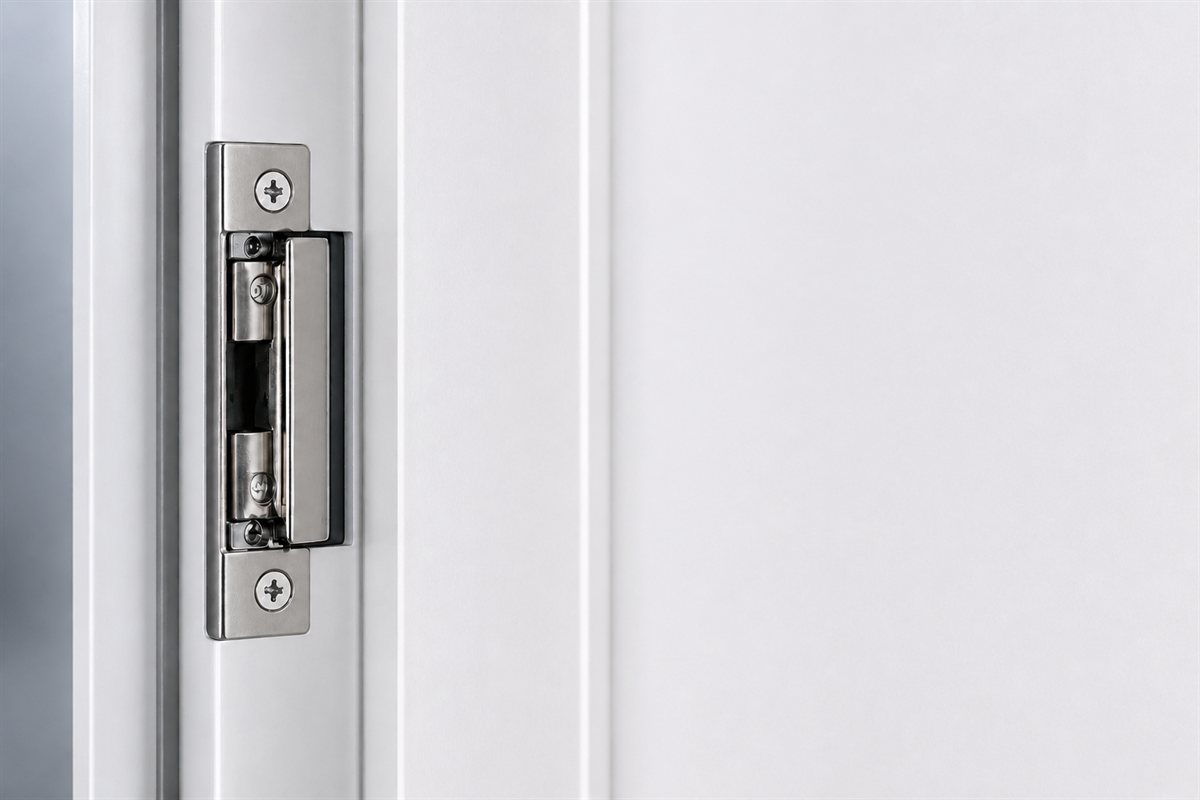
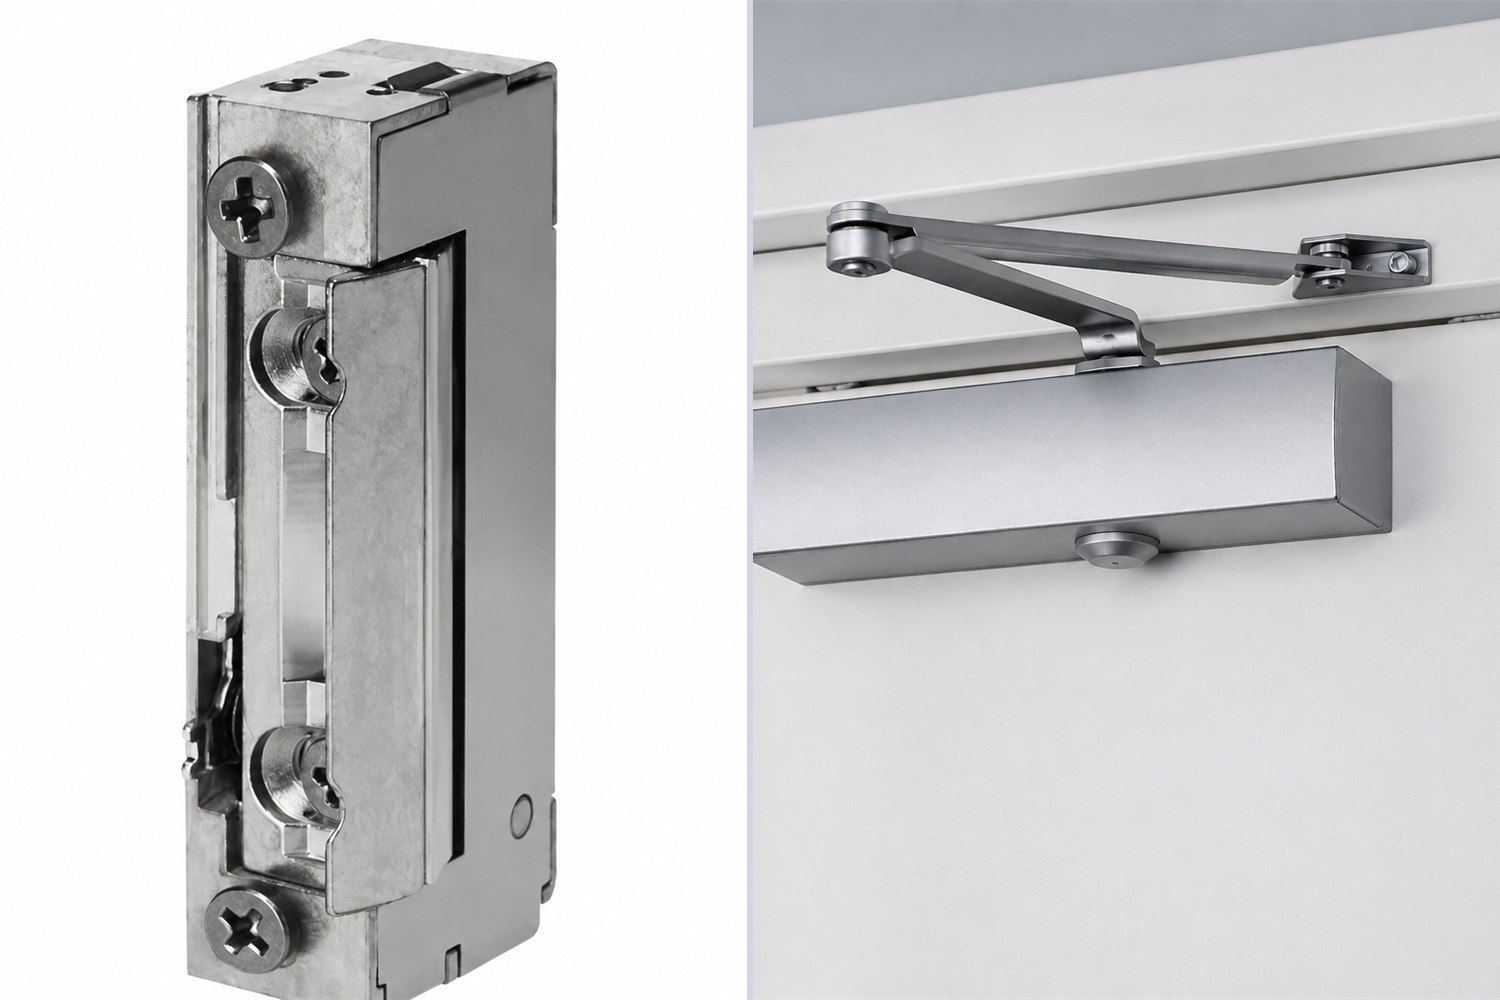
Startseite: Hero-Lead gekürzt, Trust-Punkte entfernt; Beschläge-Texte überarbeitet; Türöffner-Bild aktualisiert

diff --git a/index.html b/index.html
@@ -84,12 +84,7 @@
     <div class="hero-bar__main">
       <span class="eyebrow">Regional in Eichenau verwurzelt</span>
       <h1>Sicherheit für Ihr Zuhause – vom Fachmann montiert.</h1>
-      <p class="hero-bar__lead">Schließanlagen, Einbruchschutz und Sicherheitsbeschläge – sauber geplant, fachgerecht montiert und termintreu ausgeführt, persönlich und aus der Region.</p>
-      <div class="hero-bar__trust">
-        <div><b>Meisterqualität</b>fachgerechte Montage</div>
-        <div><b>Region</b>Eichenau &amp; Umkreis</div>
-        <div><b>Termintreu</b>zuverlässig &amp; sauber</div>
-      </div>
+      <p class="hero-bar__lead">Schließanlagen, Einbruchschutz und Sicherheitsbeschläge – fachgerecht geplant und zuverlässig montiert.</p>
     </div>
     <div class="hero-bar__side">
       <a href="tel:[phone redacted]" class="btn btn--white btn--lg"><svg viewBox="0 0 24 24" width="1em" height="1em" fill="currentColor" aria-hidden="true" style="vertical-align:-.14em"><path d="M6.6 10.8c1.[phone redacted].6l2.2-2.2c.3-.3.7-.4 1-.[phone redacted] .4 1 1V20c0 .6-.4 1-1 1C10.[phone redacted] 4c0-.6.4-1 1-1h3.5c.6 0 1 .[phone redacted] .8-.2 1L6.6 10.8z"/></svg>Kostenlos beraten lassen</a>
@@ -114,7 +109,7 @@
       </a>
       <a class="pcard" href="leistungen.html">
         <div class="pcard__media"><img src="img/produkte/beschlaege.jpg" alt="Geprüfter Sicherheitsbeschlag an einer Tür" loading="lazy"></div>
-        <div class="pcard__body"><h3>Sicherheitsbeschläge</h3><p>Geprüfte Beschläge, die Ihre Türen zuverlässig gegen Aufhebeln schützen.</p></div>
+        <div class="pcard__body"><h3>Sicherheitsbeschläge</h3><p>Geprüfte Sicherheitsbeschläge schützen Ihre Haus- und Wohnungstür dort, wo Einbrecher zuerst ansetzen: gegen Aufhebeln, Aufbohren und das gewaltsame Herausziehen des Zylinders (Kernziehen). Wir beraten Sie gerne vor Ort und montieren fachgerecht.</p></div>
       </a>
       <a class="pcard" href="leistungen.html">
         <div class="pcard__media"><img src="img/produkte/tueroeffner.jpg" alt="Elektrischer Türöffner" loading="lazy"></div>

diff --git a/leistungen.html b/leistungen.html
@@ -45,7 +45,7 @@
       </div>
       <div class="pcard">
         <div class="pcard__media"><img src="img/produkte/beschlaege.jpg" alt="Geprüfter Sicherheitsbeschlag an einer Tür" loading="lazy"></div>
-        <div class="pcard__body"><h3>Sicherheitsbeschläge</h3><p>Geprüfte Schutzbeschläge für Haus- und Wohnungstüren, die das Aufhebeln und Kernziehen des Schließzylinders wirksam erschweren.</p></div>
+        <div class="pcard__body"><h3>Sicherheitsbeschläge</h3><p>Geprüfte Sicherheitsbeschläge schützen Ihre Haus- und Wohnungstür dort, wo Einbrecher zuerst ansetzen: gegen Aufhebeln, Aufbohren und das gewaltsame Herausziehen des Zylinders (Kernziehen). Wir beraten Sie gerne vor Ort und montieren fachgerecht.</p></div>
       </div>
       <div class="pcard">
         <div class="pcard__media"><img src="img/produkte/tueroeffner.jpg" alt="Elektrischer Türöffner" loading="lazy"></div>